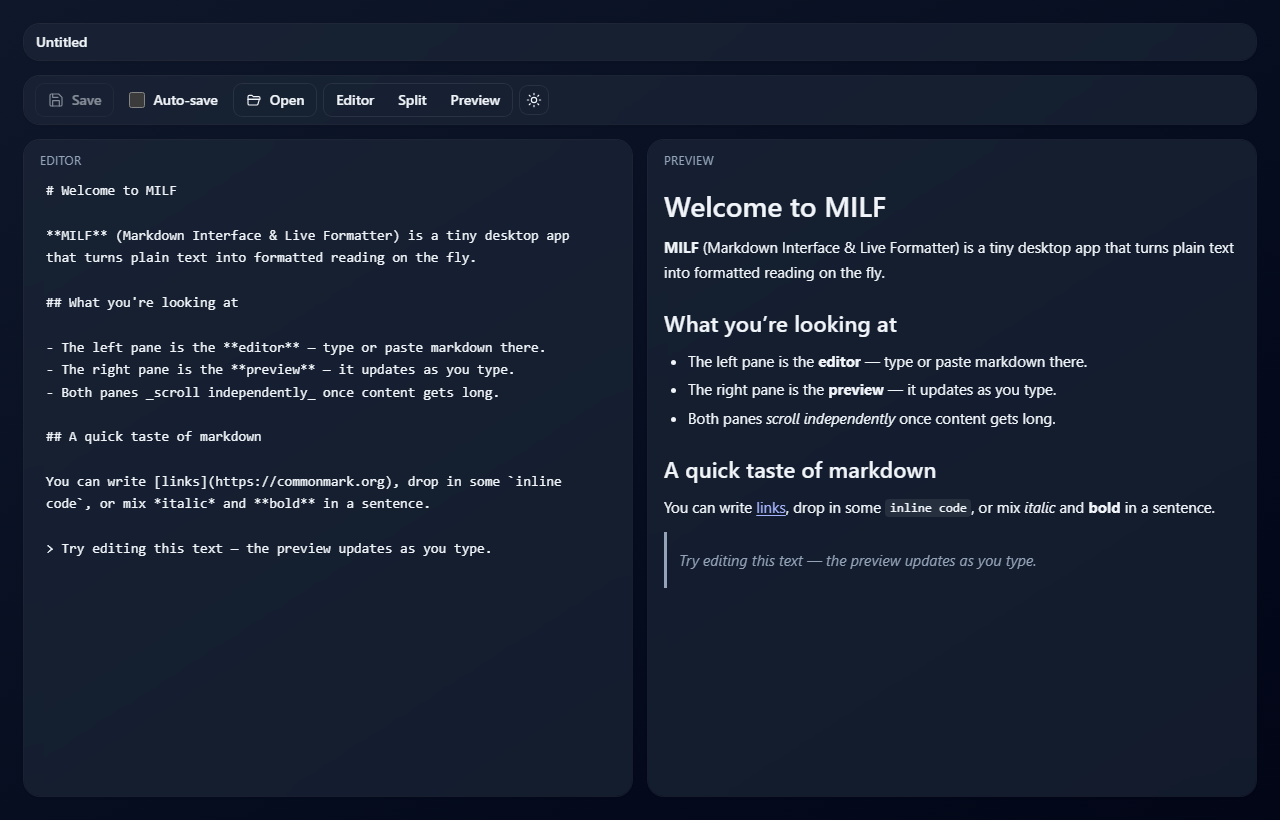
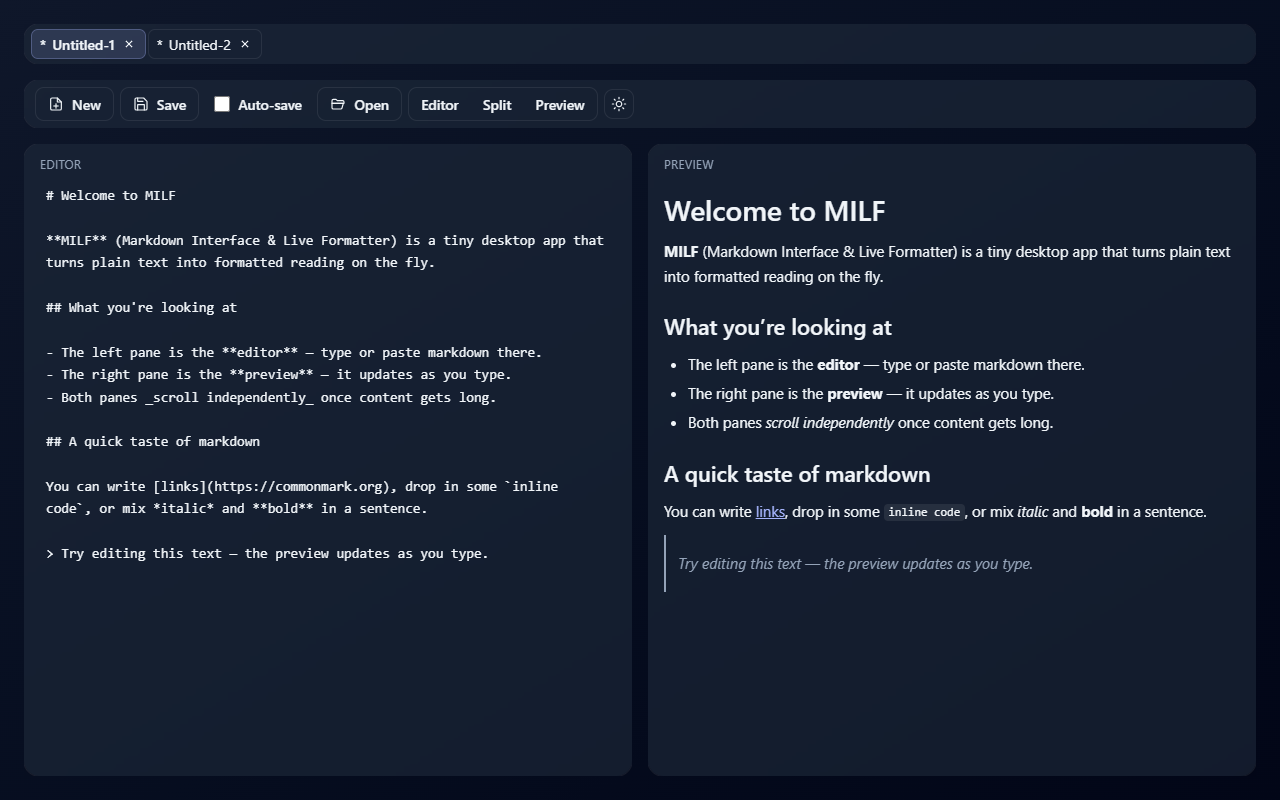
docs: updated readme

diff --git a/README.md b/README.md
@@ -8,23 +8,26 @@
 
 MILF is a lightweight, cross-platform Markdown viewer and editor for Windows, Linux, and macOS.
 
-![MILF showing the split-pane editor with starter content in the dark theme](docs/images/screenshot.png)
+![MILF showing two open tabs above the toolbar, with starter markdown in the editor pane and its live rendering in the preview pane, in the dark theme](docs/images/screenshot.png)
 
 ## Status
 
-Early development, but already usable day-to-day. The split-pane workspace, file open/save, view modes, theming, and auto-save are working today. Specs for shipped and in-progress features live under [`specs/`](specs); open issues and follow-ups are in the [issue tracker](https://github.com/lezli01/milf/issues).
+Early development, but already usable day-to-day. The split-pane workspace, multi-file tabs, file open/save, view modes, theming, auto-save, OS file-association handling, single-instance routing, and session restore are working today. Specs for shipped and in-progress features live under [`specs/`](specs); open issues and follow-ups are in the [issue tracker](https://github.com/lezli01/milf/issues).
 
 ## Features
 
 - **Live split-pane preview.** Edit Markdown on the left, see it rendered on the right, with each pane scrolling independently.
 - **Three view modes.** Editor-only, preview-only, or side-by-side — switch at any time without losing the editor's content, selection, or undo history.
+- **Multiple files in tabs.** Open many `.md` files at once; each tab keeps its own content, modified indicator, and cursor/scroll position so switching feels instant.
+- **New empty file.** Start a fresh markdown document from the toolbar or `Ctrl+N` / `⌘N`; the first Save prompts for a path.
 - **Light and dark theme.** Honors the operating system's appearance preference by default, with a manual toggle in the toolbar.
 - **Open files from disk.** Native file picker biased toward `.md` and `.markdown`, with a fallback to all files.
 - **Open files from your file manager.** Set MILF as the default for `.md` and a double-click opens MILF (or routes to the running instance).
 - **One window per user.** MILF runs as a single instance; new file requests bring the existing window to the foreground.
 - **Save back to disk.** Manual Save plus a visible modified indicator next to the file name so you always know whether your edits are on disk.
 - **Optional auto-save.** Tick the box once and edits land on disk shortly after you stop typing, while a file is open.
-- **Resumes where you left off.** Open files are remembered between launches; missing files are silently dropped.
+- **Close-tab guard.** Closing a tab with unsaved edits prompts to Save, Discard, or Cancel so reflex clicks don't lose work.
+- **Resumes where you left off.** All open tabs are remembered between launches, including which one was active; files that have been moved or deleted are silently dropped.
 - **Persistent preferences.** Theme, view mode, and auto-save choice are remembered between launches, stored locally.
 - **Responsive layout.** Side-by-side on a normal window, stacks vertically at narrow widths.
 - **Safe preview.** Rendered HTML is sanitized with DOMPurify before display.